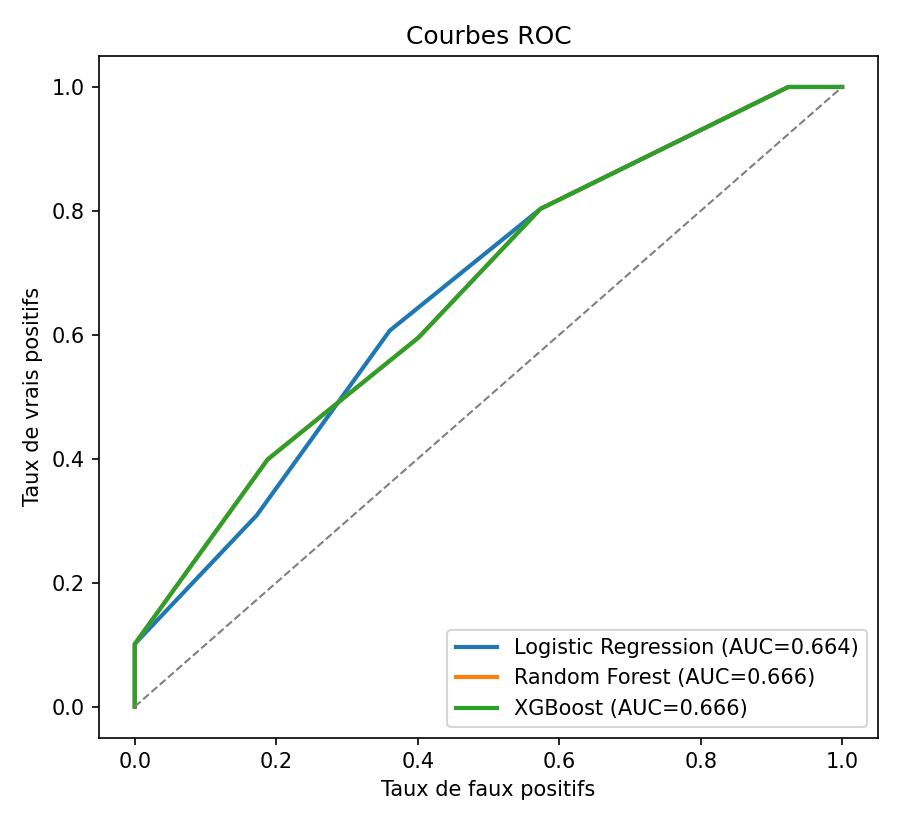
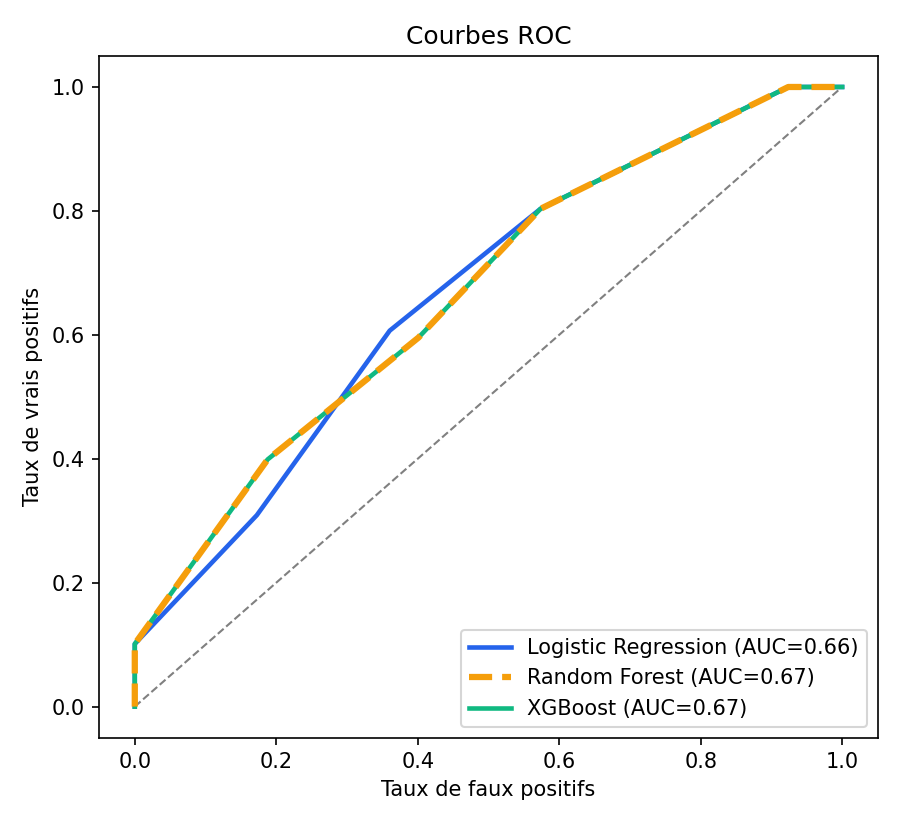
Ajout de la licence (usage non commercial) et des en-tetes de copyright

diff --git a/corrige/08_classification_infection.py b/corrige/08_classification_infection.py
@@ -1,4 +1,7 @@
 # -*- coding: utf-8 -*-
+# © 2025-2026 MALIEDJE Nelly Leaticia — Tous droits réservés.
+# Projet FCO Studio — thèse Mastère Data & IA (RNCP 37137).
+# Usage non commercial uniquement. Voir LICENCE.md.
 """
 CLASSIFICATION BINAIRE — culicoïde infecté (détectable) vs non détecté.
 
@@ -93,12 +96,20 @@ def plot_distribution(df):
 
 
 def plot_roc(models, X_test, y_test):
+    # Styles distincts : Random Forest et XGBoost ont des courbes quasi identiques,
+    # on les distingue par le trait (RF pointillé) pour que les deux restent visibles.
+    styles = {
+        "Logistic Regression": dict(color="#2563EB", linestyle="-",  lw=2.2, zorder=2),
+        "Random Forest":       dict(color="#F59E0B", linestyle="--", lw=3.0, zorder=4),
+        "XGBoost":             dict(color="#10B981", linestyle="-",  lw=2.2, zorder=3),
+    }
     fig, ax = plt.subplots(figsize=(6, 5.5))
     for name, m in models.items():
         proba = m.predict_proba(X_test)[:, 1]
         fpr, tpr, _ = roc_curve(y_test, proba)
-        ax.plot(fpr, tpr, lw=2, label=f"{name} (AUC={roc_auc_score(y_test, proba):.3f})")
-    ax.plot([0, 1], [0, 1], "--", color="grey", lw=1)
+        st = styles.get(name, dict(lw=2.2))
+        ax.plot(fpr, tpr, label=f"{name} (AUC={roc_auc_score(y_test, proba):.2f})", **st)
+    ax.plot([0, 1], [0, 1], "--", color="grey", lw=1, zorder=1)
     ax.set_xlabel("Taux de faux positifs"); ax.set_ylabel("Taux de vrais positifs")
     ax.set_title("Courbes ROC"); ax.legend(loc="lower right")
     fig.tight_layout(); fig.savefig(OUT / "roc_curves.png", dpi=150); plt.close(fig)

diff --git a/corrige/conseiller.py b/corrige/conseiller.py
@@ -1,4 +1,7 @@
 # -*- coding: utf-8 -*-
+# © 2025-2026 MALIEDJE Nelly Leaticia — Tous droits réservés.
+# Projet FCO Studio — thèse Mastère Data & IA (RNCP 37137).
+# Usage non commercial uniquement. Voir LICENCE.md.
 """Mode Conseiller — FCO Studio.
 
 Destiné aux conseillers Cerfrance qui accompagnent les éleveurs. Orienté MÉTIER

diff --git a/corrige/assistant.py b/corrige/assistant.py
@@ -1,4 +1,7 @@
 # -*- coding: utf-8 -*-
+# © 2025-2026 MALIEDJE Nelly Leaticia — Tous droits réservés.
+# Projet FCO Studio — thèse Mastère Data & IA (RNCP 37137).
+# Usage non commercial uniquement. Voir LICENCE.md.
 """Assistants FCO Studio — moteur hybride (base de connaissances + LLM optionnel).
 
 Principe :

diff --git a/bdd/optimisation_requetes.py b/bdd/optimisation_requetes.py
@@ -1,4 +1,7 @@
 # -*- coding: utf-8 -*-
+# © 2025-2026 MALIEDJE Nelly Leaticia — Tous droits réservés.
+# Projet FCO Studio — thèse Mastère Data & IA (RNCP 37137).
+# Usage non commercial uniquement. Voir LICENCE.md.
 """
 OPTIMISATION DE LA BASE — comparaison du temps d'exécution AVANT / APRÈS index.
 

diff --git a/corrige/image_preproc.py b/corrige/image_preproc.py
@@ -1,4 +1,7 @@
 # -*- coding: utf-8 -*-
+# © 2025-2026 MALIEDJE Nelly Leaticia — Tous droits réservés.
+# Projet FCO Studio — thèse Mastère Data & IA (RNCP 37137).
+# Usage non commercial uniquement. Voir LICENCE.md.
 """
 Prétraitement d'image — égalisation d'histogramme adaptative (CLAHE).
 

diff --git a/bdd/ml_depuis_base.py b/bdd/ml_depuis_base.py
@@ -1,4 +1,7 @@
 # -*- coding: utf-8 -*-
+# © 2025-2026 MALIEDJE Nelly Leaticia — Tous droits réservés.
+# Projet FCO Studio — thèse Mastère Data & IA (RNCP 37137).
+# Usage non commercial uniquement. Voir LICENCE.md.
 """
 ANALYSE SUPERVISÉE À PARTIR DE LA BASE DE DONNÉES (§vii.2 du guide).
 

diff --git a/corrige/01_train_lab_rf.py b/corrige/01_train_lab_rf.py
@@ -1,3 +1,6 @@
+# © 2025-2026 MALIEDJE Nelly Leaticia — Tous droits réservés.
+# Projet FCO Studio — thèse Mastère Data & IA (RNCP 37137).
+# Usage non commercial uniquement. Voir LICENCE.md.
 """
 VOLET LABORATOIRE — Random Forest propre pour les données de charge virale BTV.
 

diff --git a/bdd/securite_rgpd.py b/bdd/securite_rgpd.py
@@ -1,4 +1,7 @@
 # -*- coding: utf-8 -*-
+# © 2025-2026 MALIEDJE Nelly Leaticia — Tous droits réservés.
+# Projet FCO Studio — thèse Mastère Data & IA (RNCP 37137).
+# Usage non commercial uniquement. Voir LICENCE.md.
 """
 SÉCURISATION DES DONNÉES & RGPD (§vii.2 du guide).
 

diff --git a/corrige/04_lab_kinetics_analysis.py b/corrige/04_lab_kinetics_analysis.py
@@ -1,3 +1,6 @@
+# © 2025-2026 MALIEDJE Nelly Leaticia — Tous droits réservés.
+# Projet FCO Studio — thèse Mastère Data & IA (RNCP 37137).
+# Usage non commercial uniquement. Voir LICENCE.md.
 """
 VOLET LABORATOIRE — Analyse de la cinétique de réplication virale (BTV).
 

diff --git a/corrige/07_rf_analysis.py b/corrige/07_rf_analysis.py
@@ -1,3 +1,6 @@
+# © 2025-2026 MALIEDJE Nelly Leaticia — Tous droits réservés.
+# Projet FCO Studio — thèse Mastère Data & IA (RNCP 37137).
+# Usage non commercial uniquement. Voir LICENCE.md.
 """
 VOLET LABORATOIRE — Exploitation du Random Forest avec la variable ESSAI.
 

diff --git a/bdd/build_database.py b/bdd/build_database.py
@@ -1,4 +1,7 @@
 # -*- coding: utf-8 -*-
+# © 2025-2026 MALIEDJE Nelly Leaticia — Tous droits réservés.
+# Projet FCO Studio — thèse Mastère Data & IA (RNCP 37137).
+# Usage non commercial uniquement. Voir LICENCE.md.
 """
 CONSTRUCTION DE LA BASE DE DONNÉES FCO (SQLite).
 

diff --git a/corrige/02_train_image_efficientnet.py b/corrige/02_train_image_efficientnet.py
@@ -1,3 +1,6 @@
+# © 2025-2026 MALIEDJE Nelly Leaticia — Tous droits réservés.
+# Projet FCO Studio — thèse Mastère Data & IA (RNCP 37137).
+# Usage non commercial uniquement. Voir LICENCE.md.
 """
 VOLET IMAGE — Transfer learning EfficientNet-B0 propre (PyTorch + timm).
 
